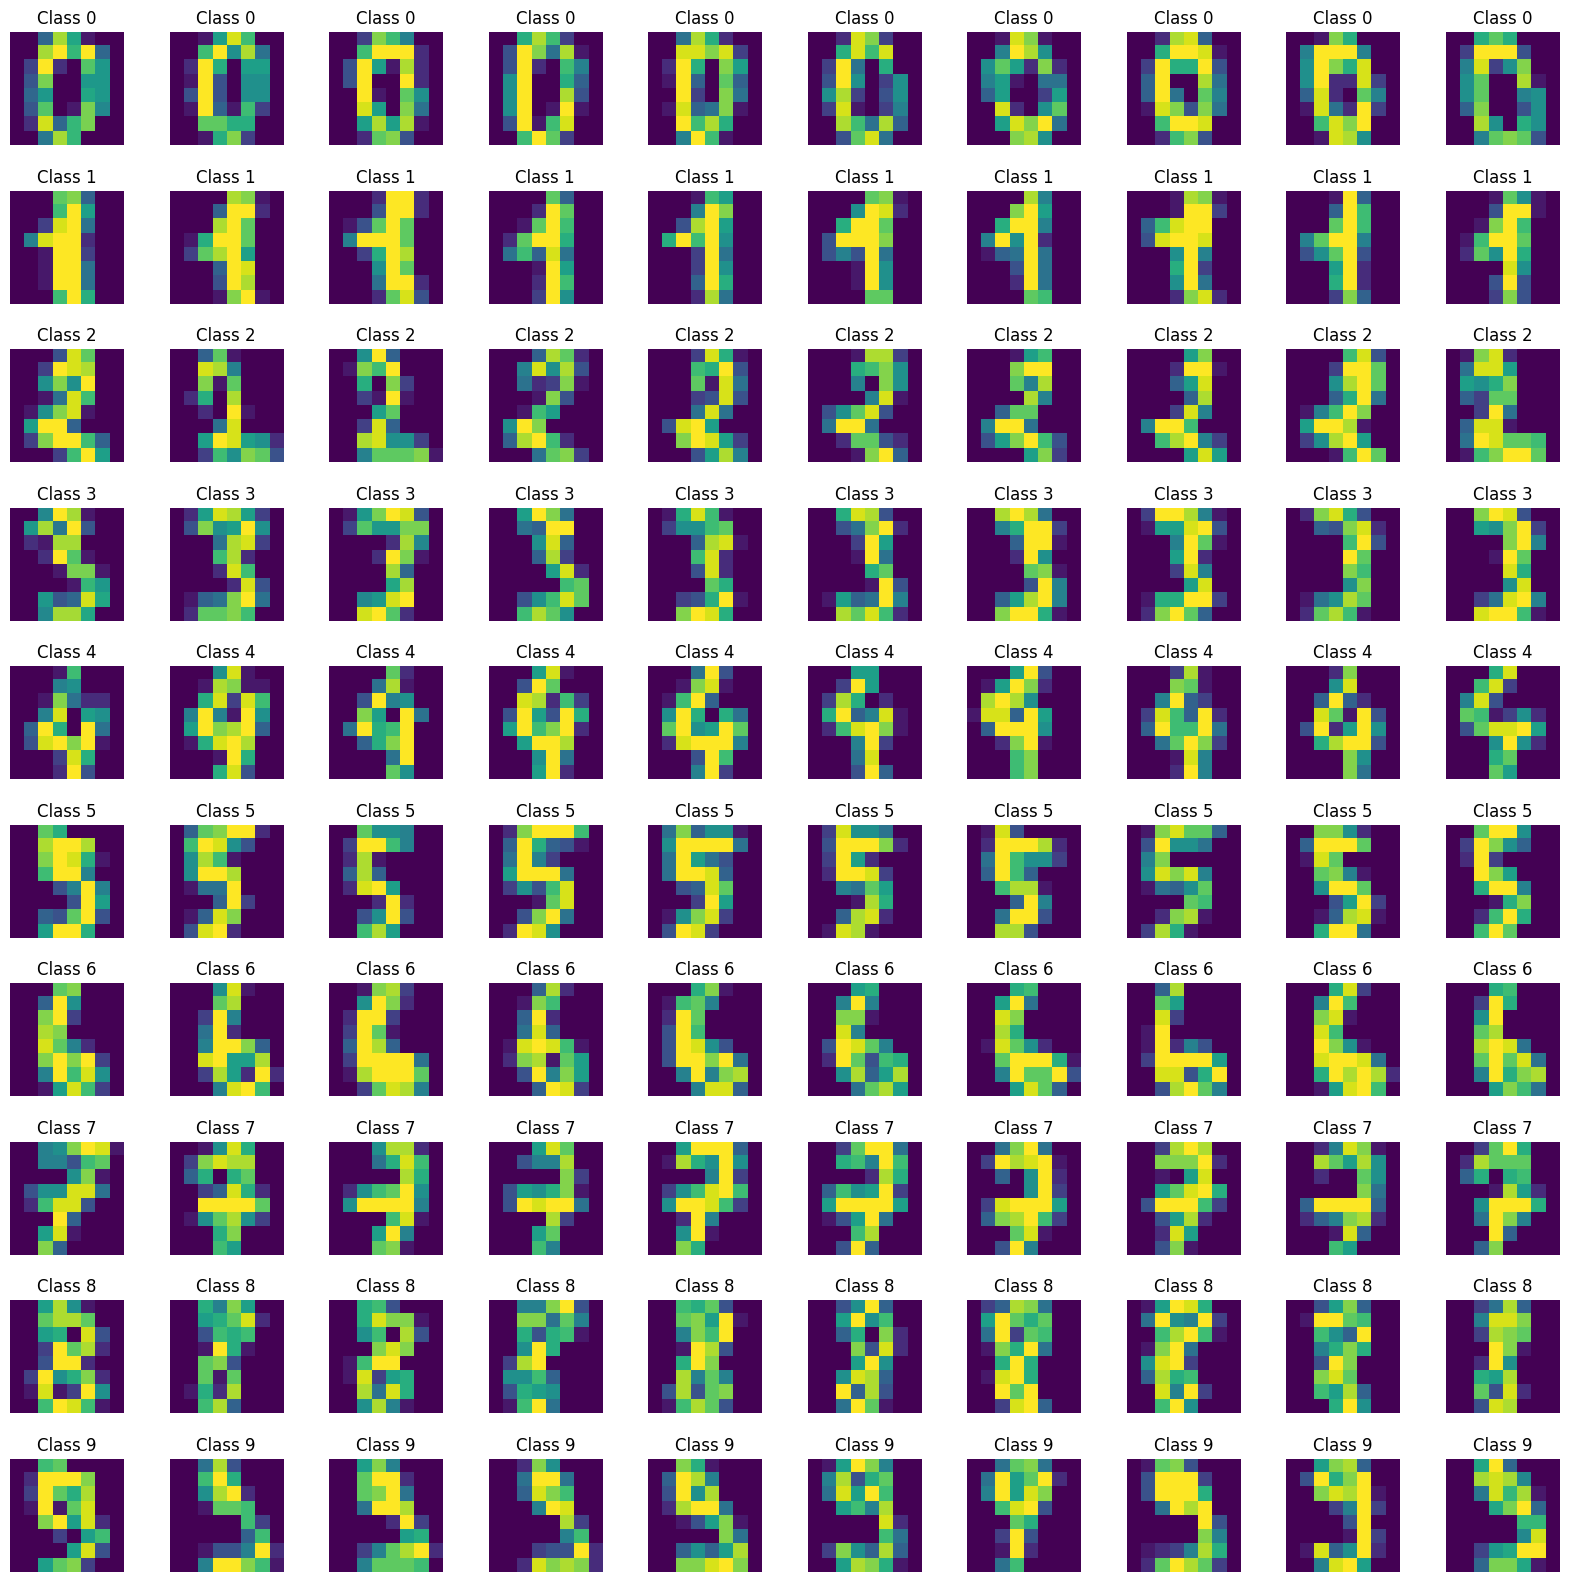
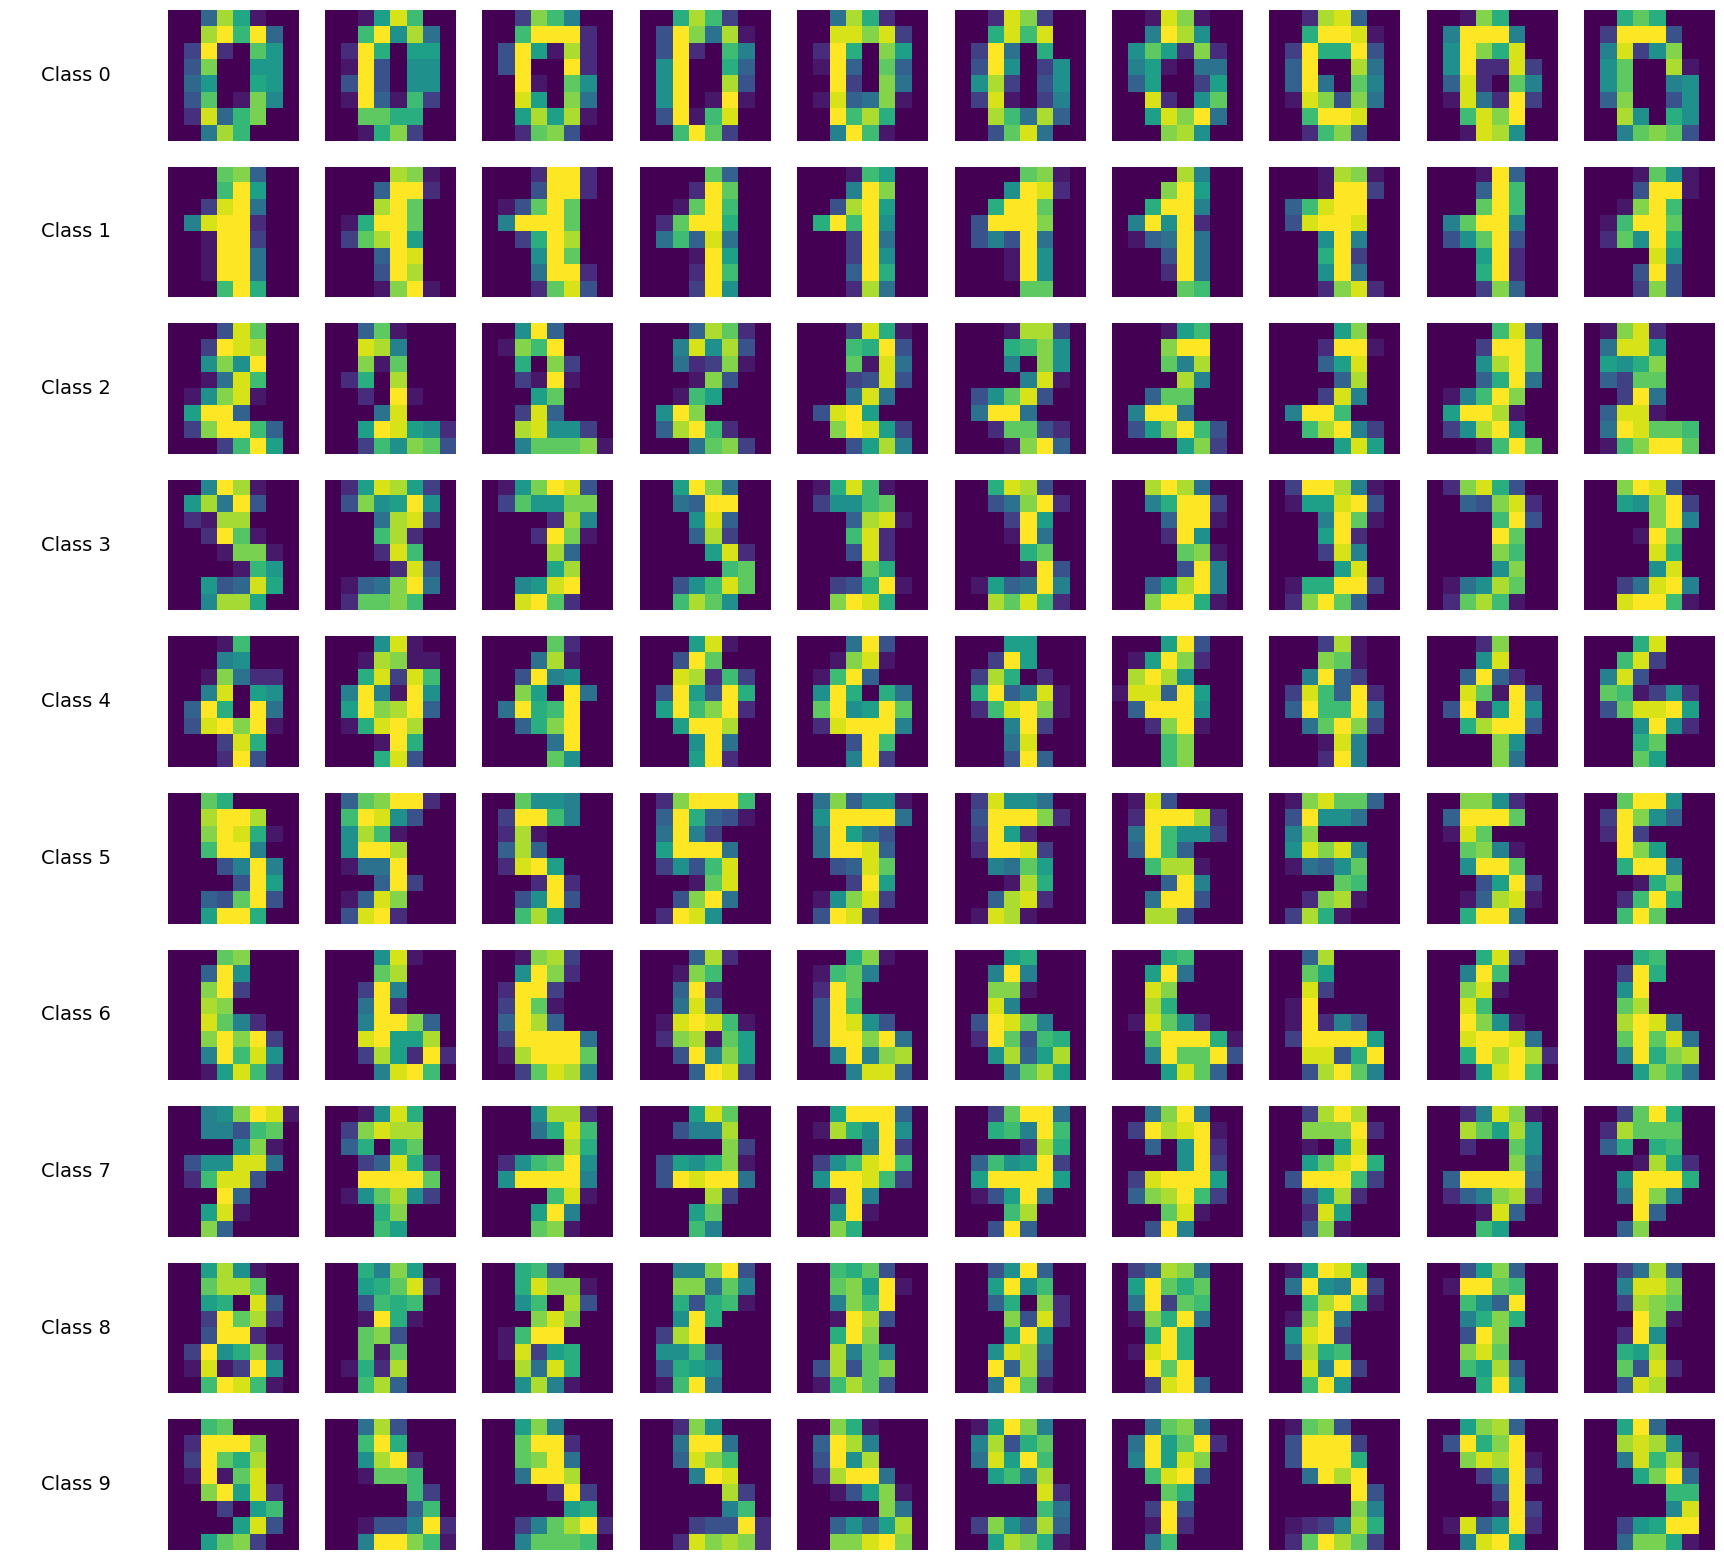
refactor: reduce redundancy of class labels

diff --git a/optical_toolkit/visualize/visualize_images.py b/optical_toolkit/visualize/visualize_images.py
@@ -30,43 +30,49 @@ def plot_images(
 
     return fig
 
-
 def summarize_images(
     images: List[np.ndarray],
     targets: List[int],
     num_images_per_class: int | None = 10,
     num_classes: int | None = None,
-    cols: int = 10,
     output_path: str = "dataset_summary.png",
 ) -> plt.Figure:
     class_images = defaultdict(list)
     for img, label in zip(images, targets):
         class_images[label].append(img)
 
+    sorted_class_items = sorted(class_images.items())
     if num_classes is not None:
-        class_images = dict(list(class_images.items())[:num_classes])
+        sorted_class_items = sorted_class_items[:num_classes]
+
+    n_rows = len(sorted_class_items)
+    n_cols = num_images_per_class + 1  # extra column for labels
 
     fig, axes = plt.subplots(
-        len(class_images),
-        num_images_per_class,
-        figsize=(num_images_per_class * 2, len(class_images) * 2),
+        n_rows,
+        n_cols,
+        figsize=(n_cols * 2, n_rows * 2),
     )
 
-    if len(class_images) == 1:
+    if n_rows == 1:
         axes = [axes]
 
-    for row_idx, (label, class_images_list) in enumerate(class_images.items()):
-        for col_idx in range(min(num_images_per_class, len(class_images_list))):
-            ax = axes[row_idx, col_idx] if len(class_images) > 1 else axes[col_idx]
-            ax.imshow(class_images_list[col_idx])
-            ax.axis("off")
-            ax.set_title(f"Class {label}", fontsize=12)
+    for row_idx, (label, class_images_list) in enumerate(sorted_class_items):
+        # Put label in the first column
+        ax_label = axes[row_idx][0] if n_rows > 1 else axes[0]
+        ax_label.axis("off")
+        ax_label.text(0.5, 0.5, f"Class {label}", fontsize=14,
+                      ha="center", va="center", transform=ax_label.transAxes)
 
-        for col_idx in range(len(class_images_list), num_images_per_class):
-            ax = axes[row_idx, col_idx] if len(class_images) > 1 else axes[col_idx]
-            ax.set_visible(False)
+        for col_idx in range(num_images_per_class):
+            ax = axes[row_idx][col_idx + 1] if n_rows > 1 else axes[col_idx + 1]
+            if col_idx < len(class_images_list):
+                ax.imshow(class_images_list[col_idx], cmap="viridis")
+                ax.axis("off")
+            else:
+                ax.set_visible(False)
 
-    plt.subplots_adjust(wspace=0.4, hspace=0.4)
+    plt.subplots_adjust(wspace=0.2, hspace=0.2)
     plt.savefig(output_path, bbox_inches="tight")
     print(f"Summary plot saved to {output_path}")
     plt.show()
